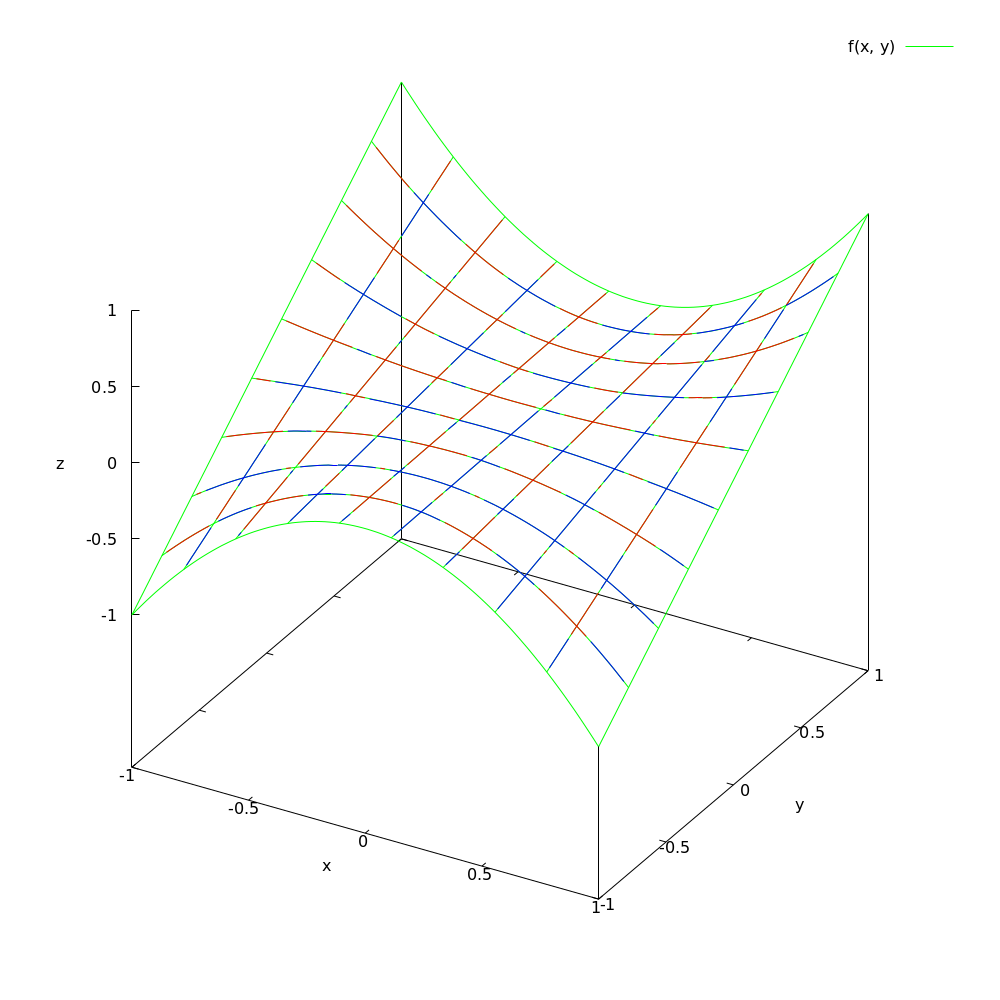
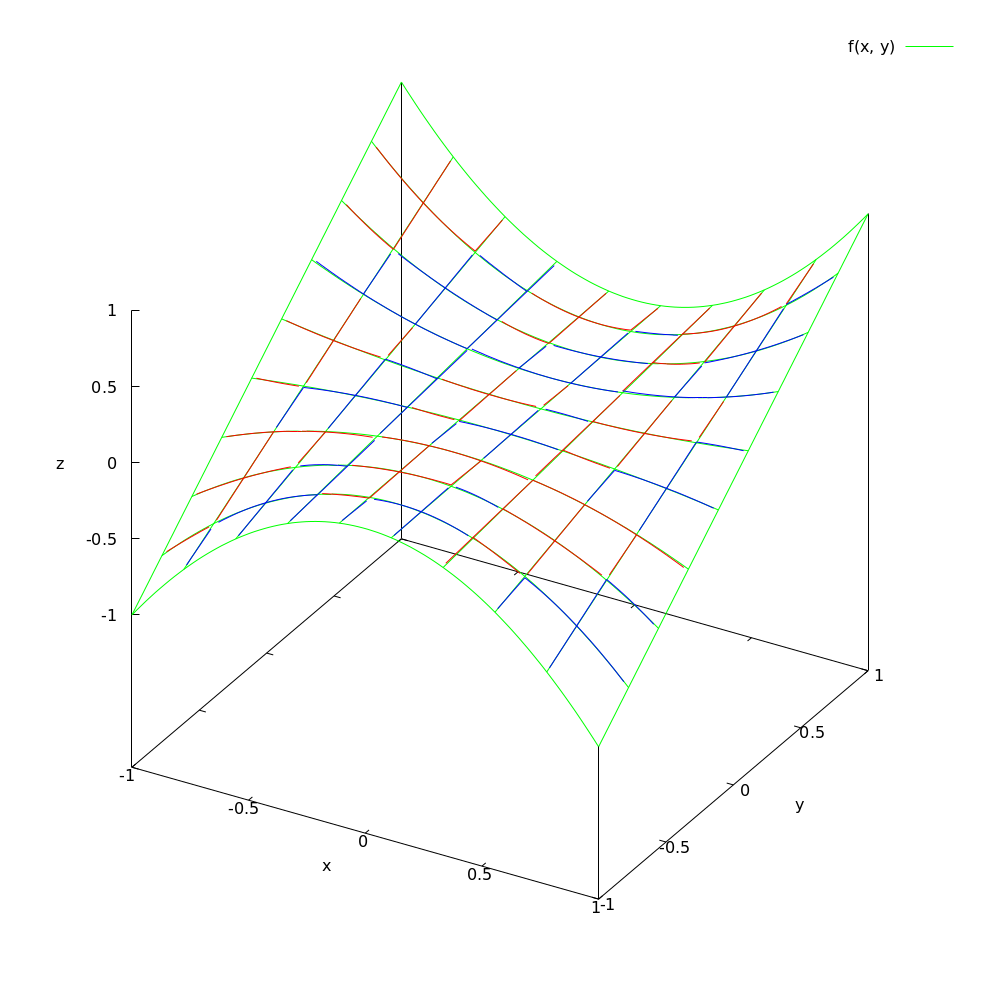
жизнь прекрана3

diff --git a/sem_6/4/main.cpp b/sem_6/4/main.cpp
@@ -13,9 +13,9 @@ a*x^2 + b*xy + c*y^2 + d*x + e*y + f
 
 double function(double x, double y);
 
-int interpolation(int n, double** coeff, double x, double y);
+int interpolation(int n, double** coeff, double** storage, double*** triangles_phi, double x, double y);
 
-void triangle_interpol(double x1, double y1, double x2, double y2, double x3, double y3, double* coeff);
+void triangle_interpol(double x1, double y1, double x2, double y2, double x3, double y3, double* coeff, double** phi);
     
 void psi(double x1, double y1, double x2, double y2, double x0, double y0, double* coeff);
 
@@ -25,16 +25,28 @@ int main(void){
     int n = 1;
     std::cin >> n;
     if(n < 1) return -1;
-    double** polynomials;
-    polynomials = new double *[2 * n * n]; 
+    double** polynomials1;
+    double** polynomials2;
+    double*** triangles_phi;
+    polynomials1 = new double *[2 * n * n]; 
+    polynomials2 = new double *[2 * n * n]; 
+    triangles_phi = new double **[2 * n * n]; 
     for(int i = 0; i < 2 * n * n; i++){
-        polynomials[i] = new double [6]; 
+        polynomials1[i] = new double [6]; 
+        polynomials2[i] = new double [6];
+        triangles_phi[i] = new double *[6]; 
+        triangles_phi[i][0] = new double [6]; 
+        triangles_phi[i][1] = new double [6]; 
+        triangles_phi[i][2] = new double [6]; 
+        triangles_phi[i][3] = new double [6]; 
+        triangles_phi[i][4] = new double [6]; 
+        triangles_phi[i][5] = new double [6]; 
     }
 
     double x = 1;
     double y = 1;
 
-    interpolation(n, polynomials, x, y);
+    interpolation(n, polynomials1, polynomials2, triangles_phi, x, y);
 
     std::ofstream scriptFile("plot_script.gp");
     scriptFile << "set terminal pngcairo enhanced color size 1000,1000\n";
@@ -50,11 +62,11 @@ int main(void){
             if(j%2 == 0){     
                 x1 = -x + d_x * (j/2);       
                 y1 = y - d_y * i; 
-                scriptFile << "p_" << k << "(x, y) =  ("<< x1 <<" < x && x < "<< x1 + d_x <<" && (" << y1 - d_y << " + " << d_y / d_x << "*(x - " << x1 << ")) < y && y < " << y1 << ") ? " << polynomials[k][0] << "*(x**2) + " << polynomials[k][1] << "*(x*y) + " << polynomials[k][2] << "*(y**2) + " << polynomials[k][3] << "*(x) + " << polynomials[k][4] << "*(y) + " << polynomials[k][5] << ": 1/0\n";
+                scriptFile << "p_" << k << "(x, y) =  ("<< x1 <<" < x && x < "<< x1 + d_x <<" && (" << y1 - d_y << " + " << d_y / d_x << "*(x - " << x1 << ")) < y && y < " << y1 << ") ? " << polynomials2[k][0] << "*(x**2) + " << polynomials2[k][1] << "*(x*y) + " << polynomials2[k][2] << "*(y**2) + " << polynomials2[k][3] << "*(x) + " << polynomials2[k][4] << "*(y) + " << polynomials2[k][5] << ": 1/0\n";
             }else{    
                 x1 = -x + d_x * ((j/2) + 1);  
                 y1 = y - d_y * i;                     
-                scriptFile << "p_" << k << "(x, y) =  ("<< x1 - d_x <<" < x && x < "<< x1 <<" && " << y1 - d_y << " < y && y < (" << y1 - d_y << " + " << d_y / d_x << "*(x - " << x1 - d_x << "))) ? " << polynomials[k][0] << "*(x**2) + " << polynomials[k][1] << "*(x*y) + " << polynomials[k][2] << "*(y**2) + " << polynomials[k][3] << "*(x) + " << polynomials[k][4] << "*(y) + " << polynomials[k][5] << ": 1/0\n";
+                scriptFile << "p_" << k << "(x, y) =  ("<< x1 - d_x <<" < x && x < "<< x1 <<" && " << y1 - d_y << " < y && y < (" << y1 - d_y << " + " << d_y / d_x << "*(x - " << x1 - d_x << "))) ? " << polynomials2[k][0] << "*(x**2) + " << polynomials2[k][1] << "*(x*y) + " << polynomials2[k][2] << "*(y**2) + " << polynomials2[k][3] << "*(x) + " << polynomials2[k][4] << "*(y) + " << polynomials2[k][5] << ": 1/0\n";
             }
             
         }
@@ -84,9 +96,18 @@ int main(void){
 
 
     for(int i = 0; i < 2 * n * n; i++){
-        delete[] polynomials[i];
+        delete[] polynomials1[i];
+        delete[] polynomials2[i];
+        delete[] triangles_phi[i][0]; 
+        delete[] triangles_phi[i][1]; 
+        delete[] triangles_phi[i][2]; 
+        delete[] triangles_phi[i][3]; 
+        delete[] triangles_phi[i][4]; 
+        delete[] triangles_phi[i][5]; 
+        delete[] triangles_phi[i]; 
     }
-    delete[] polynomials;
+    delete[] polynomials1;
+    delete[] polynomials2;
     return 0;
 }
 
@@ -94,7 +115,7 @@ double function(double x, double y){
     return x*y*x;
 }
 
-int interpolation(int n, double** coeff, double x, double y){
+int interpolation(int n, double** coeff, double** storage, double*** triangles_phi, double x, double y){
     double d_x = 2 * x / n;
     double d_y = 2 * y / n;
     double x1, x2, x3, y1, y2, y3, new_x1, new_x2, new_x3, new_y1, new_y2, new_y3;
@@ -102,7 +123,7 @@ int interpolation(int n, double** coeff, double x, double y){
             
     for(int i = 0; i < n; i++){
         for(int j = 0; j < 2 * n; j++){
-                                                       
+                                                  
             if(j%2 == 0){                         //                    ___
                 x1 = -x + d_x * (j/2);            //  типа треугольник  | /
                 y1 = y - d_y * i;                 //                    |/
@@ -118,7 +139,7 @@ int interpolation(int n, double** coeff, double x, double y){
                 x3 = x1 - d_x;
                 y3 = y1 - d_y;
             }
-            
+
             new_x1 = (10*x1 + x2 + x3)/12;
             new_y1 = (10*y1 + y2 + y3)/12;
             new_x2 = (10*x2 + x1 + x3)/12;
@@ -127,14 +148,15 @@ int interpolation(int n, double** coeff, double x, double y){
             new_y3 = (10*y3 + y2 + y1)/12;
 
             k = i * 2 * n + j;
-            triangle_interpol(new_x1, new_y1, new_x2, new_y2, new_x3, new_y3, coeff[k]);
+
+            triangle_interpol(new_x1, new_y1, new_x2, new_y2, new_x3, new_y3, storage[k], triangles_phi[k]);
         }
     }
 
     return 0;
 }
 
-void triangle_interpol(double x1, double y1, double x2, double y2, double x3, double y3, double* coeff){
+void triangle_interpol(double x1, double y1, double x2, double y2, double x3, double y3, double* coeff, double** phi){
     for(int j = 0; j < 6; j++){
         coeff[j] = 0;         
     }
@@ -153,63 +175,100 @@ void triangle_interpol(double x1, double y1, double x2, double y2, double x3, do
     psi(x3, y3, x2, y2, x1, y1, buf1);
     psi(x5, y5, x6, y6, x1, y1, buf2);
     buf = function(x1, y1);
+    phi[0][0] = (buf1[0]*buf2[0]);
     coeff[0] += buf*(buf1[0]*buf2[0]);
+    phi[0][1] += (buf1[0]*buf2[1] + buf1[1]*buf2[0]);
     coeff[1] += buf*(buf1[0]*buf2[1] + buf1[1]*buf2[0]);
+    phi[0][2] += (buf1[1]*buf2[1]);
     coeff[2] += buf*(buf1[1]*buf2[1]);
+    phi[0][3] += (buf1[0]*buf2[2] + buf1[2]*buf2[0]);
     coeff[3] += buf*(buf1[0]*buf2[2] + buf1[2]*buf2[0]);
+    phi[0][4] += (buf1[2]*buf2[1] + buf1[1]*buf2[2]);
     coeff[4] += buf*(buf1[2]*buf2[1] + buf1[1]*buf2[2]);
+    phi[0][5] += (buf1[2]*buf2[2]);
     coeff[5] += buf*(buf1[2]*buf2[2]);
 
     psi(x3, y3, x1, y1, x2, y2, buf1);
     psi(x4, y4, x6, y6, x2, y2, buf2);
     buf = function(x2, y2);
+    phi[1][0] = (buf1[0]*buf2[0]);
     coeff[0] += buf*(buf1[0]*buf2[0]);
+    phi[1][1] += (buf1[0]*buf2[1] + buf1[1]*buf2[0]);
     coeff[1] += buf*(buf1[0]*buf2[1] + buf1[1]*buf2[0]);
+    phi[1][2] += (buf1[1]*buf2[1]);
     coeff[2] += buf*(buf1[1]*buf2[1]);
+    phi[1][3] += (buf1[0]*buf2[2] + buf1[2]*buf2[0]);
     coeff[3] += buf*(buf1[0]*buf2[2] + buf1[2]*buf2[0]);
+    phi[1][4] += (buf1[2]*buf2[1] + buf1[1]*buf2[2]);
     coeff[4] += buf*(buf1[2]*buf2[1] + buf1[1]*buf2[2]);
+    phi[1][5] += (buf1[2]*buf2[2]);
     coeff[5] += buf*(buf1[2]*buf2[2]);
 
     psi(x1, y1, x2, y2, x3, y3, buf1);
     psi(x5, y5, x4, y4, x3, y3, buf2);
     buf = function(x3, y3);
+    phi[2][0] = (buf1[0]*buf2[0]);
     coeff[0] += buf*(buf1[0]*buf2[0]);
+    phi[2][1] += (buf1[0]*buf2[1] + buf1[1]*buf2[0]);
     coeff[1] += buf*(buf1[0]*buf2[1] + buf1[1]*buf2[0]);
+    phi[2][2] += (buf1[1]*buf2[1]);
     coeff[2] += buf*(buf1[1]*buf2[1]);
+    phi[2][3] += (buf1[0]*buf2[2] + buf1[2]*buf2[0]);
     coeff[3] += buf*(buf1[0]*buf2[2] + buf1[2]*buf2[0]);
+    phi[2][4] += (buf1[2]*buf2[1] + buf1[1]*buf2[2]);
     coeff[4] += buf*(buf1[2]*buf2[1] + buf1[1]*buf2[2]);
+    phi[2][5] += (buf1[2]*buf2[2]);
     coeff[5] += buf*(buf1[2]*buf2[2]);
 
     psi(x3, y3, x1, y1, x4, y4, buf1);
     psi(x2, y2, x1, y1, x4, y4, buf2);
     buf = function(x4, y4);
+    phi[3][0] = (buf1[0]*buf2[0]);
     coeff[0] += buf*(buf1[0]*buf2[0]);
+    phi[3][1] += (buf1[0]*buf2[1] + buf1[1]*buf2[0]);
     coeff[1] += buf*(buf1[0]*buf2[1] + buf1[1]*buf2[0]);
+    phi[3][2] += (buf1[1]*buf2[1]);
     coeff[2] += buf*(buf1[1]*buf2[1]);
+    phi[3][3] += (buf1[0]*buf2[2] + buf1[2]*buf2[0]);
     coeff[3] += buf*(buf1[0]*buf2[2] + buf1[2]*buf2[0]);
+    phi[3][4] += (buf1[2]*buf2[1] + buf1[1]*buf2[2]);
     coeff[4] += buf*(buf1[2]*buf2[1] + buf1[1]*buf2[2]);
+    phi[3][5] += (buf1[2]*buf2[2]);
     coeff[5] += buf*(buf1[2]*buf2[2]);
 
     psi(x3, y3, x2, y2, x5, y5, buf1);
     psi(x2, y2, x1, y1, x5, y5, buf2);
     buf = function(x5, y5);
+    phi[4][0] = (buf1[0]*buf2[0]);
     coeff[0] += buf*(buf1[0]*buf2[0]);
+    phi[4][1] += (buf1[0]*buf2[1] + buf1[1]*buf2[0]);
     coeff[1] += buf*(buf1[0]*buf2[1] + buf1[1]*buf2[0]);
+    phi[4][2] += (buf1[1]*buf2[1]);
     coeff[2] += buf*(buf1[1]*buf2[1]);
+    phi[4][3] += (buf1[0]*buf2[2] + buf1[2]*buf2[0]);
     coeff[3] += buf*(buf1[0]*buf2[2] + buf1[2]*buf2[0]);
+    phi[4][4] += (buf1[2]*buf2[1] + buf1[1]*buf2[2]);
     coeff[4] += buf*(buf1[2]*buf2[1] + buf1[1]*buf2[2]);
+    phi[4][5] += (buf1[2]*buf2[2]);
     coeff[5] += buf*(buf1[2]*buf2[2]);
 
     psi(x3, y3, x1, y1, x6, y6, buf1);
     psi(x2, y2, x3, y3, x6, y6, buf2);
     buf = function(x6, y6);
+    phi[5][0] = (buf1[0]*buf2[0]);
     coeff[0] += buf*(buf1[0]*buf2[0]);
+    phi[5][1] += (buf1[0]*buf2[1] + buf1[1]*buf2[0]);
     coeff[1] += buf*(buf1[0]*buf2[1] + buf1[1]*buf2[0]);
+    phi[5][2] += (buf1[1]*buf2[1]);
     coeff[2] += buf*(buf1[1]*buf2[1]);
+    phi[5][3] += (buf1[0]*buf2[2] + buf1[2]*buf2[0]);
     coeff[3] += buf*(buf1[0]*buf2[2] + buf1[2]*buf2[0]);
+    phi[5][4] += (buf1[2]*buf2[1] + buf1[1]*buf2[2]);
     coeff[4] += buf*(buf1[2]*buf2[1] + buf1[1]*buf2[2]);
+    phi[5][5] += (buf1[2]*buf2[2]);
     coeff[5] += buf*(buf1[2]*buf2[2]);
 }
+
 
 void psi(double x1, double y1, double x2, double y2, double x0, double y0, double* coeff){ //в (x0, y0) единица
     coeff[0] = y2 - y1;
